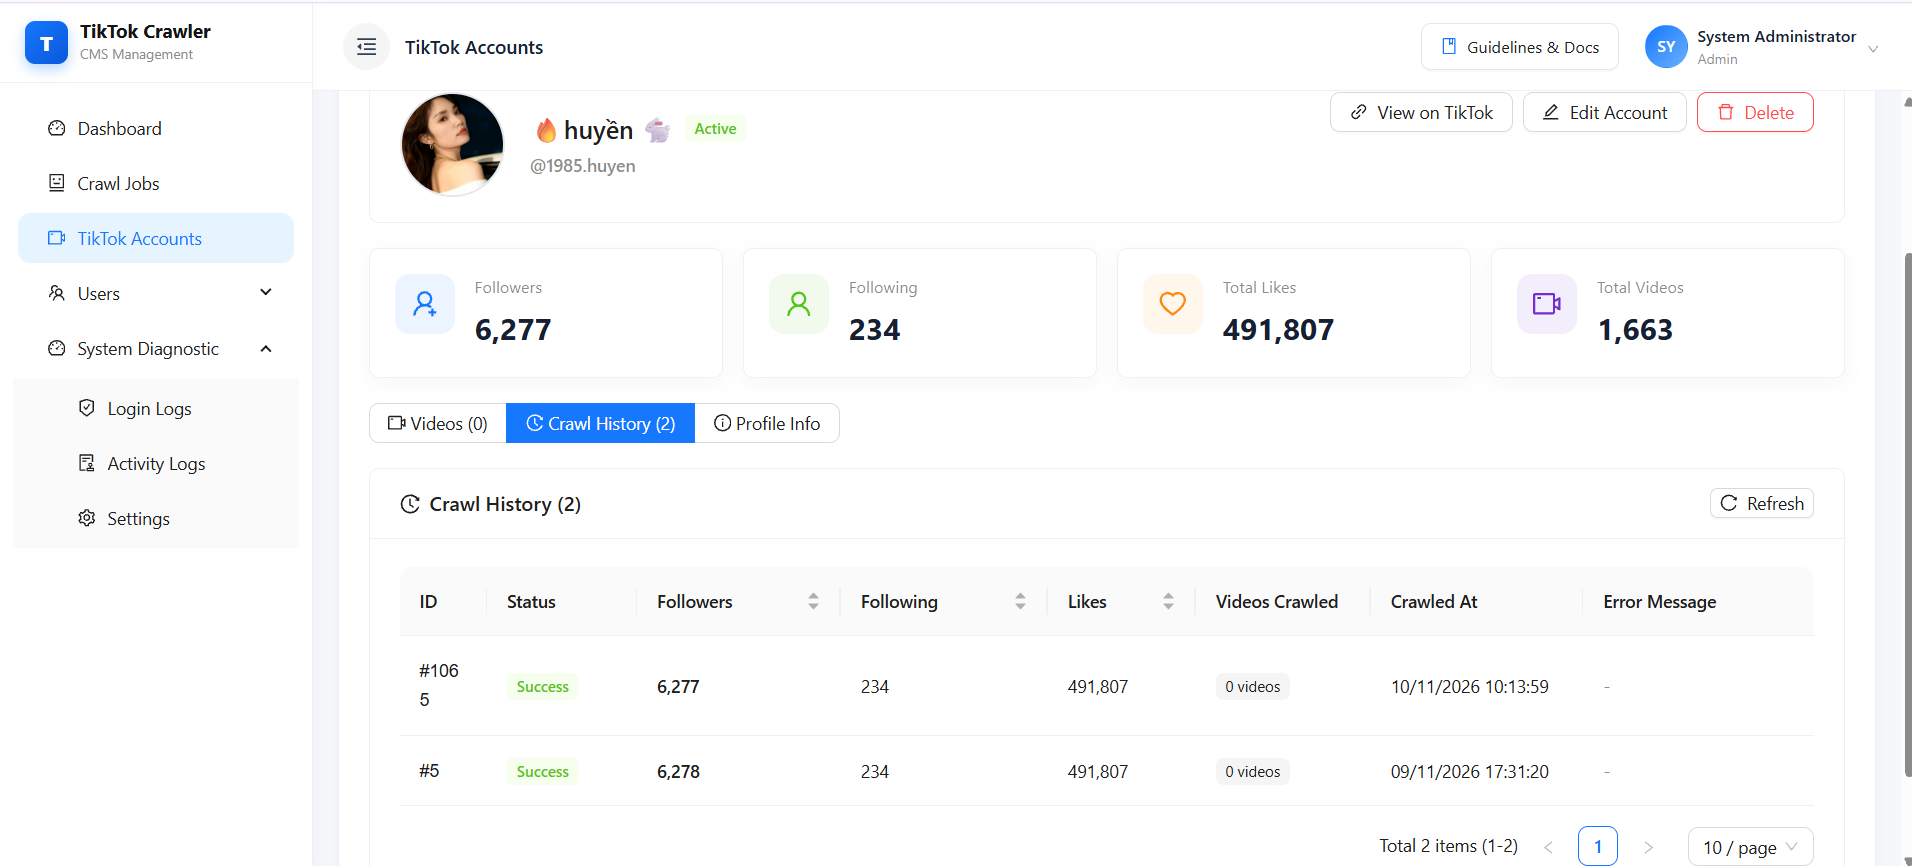
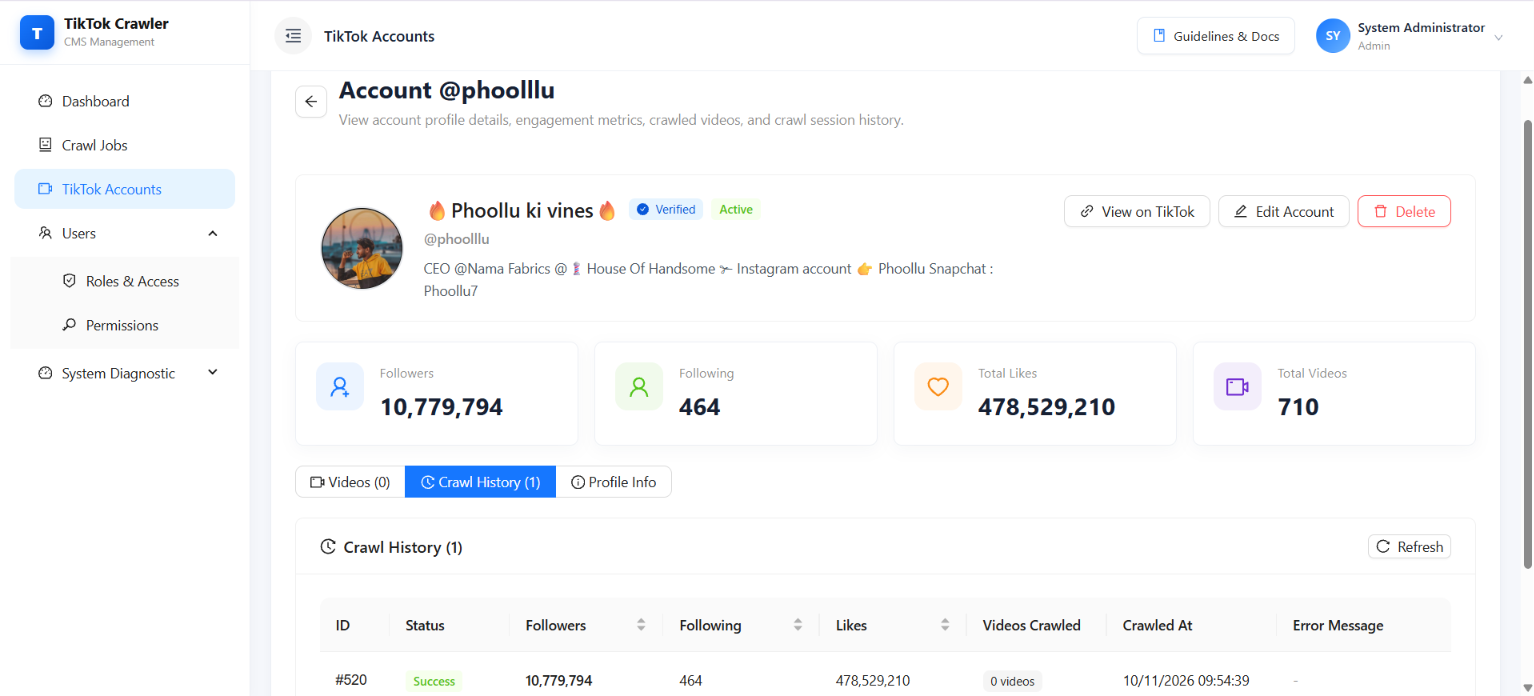
docs(guideline): sanitize database table names and enhance beginner-friendly SOP guides

diff --git a/cms-tiktok-crawler/modules/Guideline/resources/js/content/followArticlesVi.ts b/cms-tiktok-crawler/modules/Guideline/resources/js/content/followArticlesVi.ts
@@ -28,12 +28,24 @@ export const FOLLOW_ARTICLES_VI: DocArticle[] = [
       {
         "type": "heading",
         "level": 2,
-        "text": "Mục tiêu",
+        "text": "Mục tiêu & Tóm tắt Quy trình",
         "anchorId": "quickstart-objective"
       },
       {
         "type": "paragraph",
         "text": "Tài liệu này hướng dẫn bạn cách đăng nhập, thiết lập tài khoản mục tiêu, áp dụng bộ lọc ngày, khởi chạy tiến trình crawl và kiểm tra thông tin kênh TikTok cùng video vừa thu thập trong vòng 5 phút."
+      },
+      {
+        "type": "callout",
+        "variant": "tip",
+        "title": "Cẩm nang Cho Người Mới Bắt Đầu (3 Bước Cơ Bản)",
+        "text": "Nếu đây là lần đầu tiên bạn sử dụng hệ thống, quy trình vận hành chỉ gồm 3 bước siêu đơn giản:\n1. Bước 1: Mở mục 'Crawl Jobs' trên menu bên trái -> Nhập nick TikTok bạn muốn theo dõi (ví dụ: @vtv24news).\n2. Bước 2: Bấm nút 'Create & Start Crawl' màu xanh lá để hệ thống tự động bóc tách dữ liệu và video.\n3. Bước 3: Mở mục 'TikTok Accounts' trên menu để xem số liệu kênh và danh sách video đã thu thập."
+      },
+      {
+        "type": "callout",
+        "variant": "note",
+        "title": "Bố cục Giao diện Làm Việc",
+        "text": "- Thanh menu bên trái (màu tối): Nơi truy cập các chức năng chính (Dashboard, Crawl Jobs, TikTok Accounts, Quản lý người dùng, Phân quyền, Cài đặt hệ thống).\n- Thanh tiêu đề trên cùng: Hiển thị tên tài khoản đang đăng nhập, nút chuyển ngôn ngữ Anh/Việt và nút Đăng xuất.\n- Khu vực chính giữa: Nơi hiển thị các bảng dữ liệu, nút bấm thao tác và form nhập liệu."
       },
       {
         "type": "procedure",
@@ -42,7 +54,7 @@ export const FOLLOW_ARTICLES_VI: DocArticle[] = [
           {
             "stepNumber": 1,
             "title": "Đăng nhập vào Hệ thống CMS",
-            "instruction": "Mở trình duyệt và truy cập /admin/auth/login. Nhập email và mật khẩu quản trị viên, sau đó nhấn 'Sign in'.",
+            "instruction": "Mở trình duyệt web (Google Chrome, Cốc Cốc hoặc Microsoft Edge) và truy cập địa chỉ đăng nhập (/admin/auth/login). Nhập địa chỉ Email và Mật khẩu của bạn, tích chọn ô 'Ghi nhớ phiên (Remember Me)' để không phải đăng nhập lại lần sau, sau đó nhấn nút màu xanh 'Sign in'.",
             "screenshot": {
               "src": "/images/guideline/auth/figure-auth-login.png",
               "alt": "Màn hình Đăng nhập CMS",
@@ -73,7 +85,7 @@ export const FOLLOW_ARTICLES_VI: DocArticle[] = [
           {
             "stepNumber": 2,
             "title": "Điều hướng đến Danh sách Crawl Jobs",
-            "instruction": "Tại menu thanh bên trái, chọn 'Crawl Jobs'. Sau đó nhấn nút màu xanh '+ Create Job' ở góc trên bên phải.",
+            "instruction": "Nhìn sang thanh menu dọc màu tối bên tay trái màn hình, nhấn vào dòng có chữ 'Crawl Jobs' (có biểu tượng mũi tên tải xuống). Bảng danh sách các đợt crawl sẽ hiện ra. Tiếp theo, nhìn lên góc trên cùng bên phải màn hình và nhấn vào nút màu xanh dương '+ Create Job'.",
             "screenshot": {
               "src": "/images/guideline/crawler/figure-crawl-job-table.png",
               "alt": "Danh mục Crawl Jobs",
@@ -89,7 +101,7 @@ export const FOLLOW_ARTICLES_VI: DocArticle[] = [
           {
             "stepNumber": 3,
             "title": "Cấu hình Tài khoản Mục tiêu & Chế độ Crawl",
-            "instruction": "Nhập danh sách handle TikTok vào ô Data Crawl. Chọn chế độ 'Account With Videos' để lấy cả profile lẫn video. Tại mục 'Date Filter', chọn 'Today' để chỉ lấy video đăng trong ngày hôm nay.",
+            "instruction": "Tại form tạo job:\n1. Chọn tab 'Usernames' (mặc định đã chọn).\n2. Tại ô 'Dữ liệu Crawl (Data Crawl)': Gõ hoặc dán danh sách nick TikTok bạn muốn lấy (ví dụ: @vtv24news hoặc vtv24news). Nếu có nhiều kênh, mỗi kênh bạn xuống một dòng riêng biệt.\n3. Tại mục 'Chế độ Crawl (Crawl Mode)': Chọn 'Account With Videos' để lấy cả thông tin kênh lẫn danh sách video.\n4. Tại mục 'Bộ lọc Ngày (Date Filter)': Chọn 'Today' nếu bạn chỉ muốn lấy video đăng trong ngày hôm nay.",
             "screenshot": {
               "src": "/images/guideline/crawler/figure-crawl-job-create-filled.png",
               "alt": "Điền Thông tin Crawl Job",
@@ -125,7 +137,7 @@ export const FOLLOW_ARTICLES_VI: DocArticle[] = [
           {
             "stepNumber": 4,
             "title": "Kiểm tra Múi giờ & Preset Ngày",
-            "instruction": "Mở dropdown Date Filter kiểm tra preset đã chọn và xác nhận múi giờ vận hành là Asia/Ho_Chi_Minh (UTC+7).",
+            "instruction": "Nhấn vào ô chọn Date Filter để kiểm tra lại: preset là 'Today' và múi giờ đang chọn là Asia/Ho_Chi_Minh (UTC+7, giờ Việt Nam).",
             "screenshot": {
               "src": "/images/guideline/crawler/figure-crawl-job-date-filter.png",
               "alt": "Dropdown Chọn Bộ lọc Ngày và Múi giờ",
@@ -139,7 +151,7 @@ export const FOLLOW_ARTICLES_VI: DocArticle[] = [
           {
             "stepNumber": 5,
             "title": "Xác nhận và Bắt đầu Tiến trình Crawl",
-            "instruction": "Nhấn nút 'Create & Start Crawl'. Hộp thoại popconfirm xuất hiện hỏi xác nhận, nhấn 'Yes' để điều phối job ngay tới Worker Engine.",
+            "instruction": "Cuộn xuống cuối trang, nhấn vào nút màu xanh lá 'Create & Start Crawl'. Một hộp thoại nhỏ sẽ hiện lên hỏi: 'Bạn có chắc chắn muốn khởi chạy ngay không?', hãy nhấn 'Yes'.",
             "screenshot": {
               "src": "/images/guideline/crawler/figure-crawl-job-start-confirm.png",
               "alt": "Xác nhận Khởi chạy Job",
@@ -153,7 +165,7 @@ export const FOLLOW_ARTICLES_VI: DocArticle[] = [
           {
             "stepNumber": 6,
             "title": "Theo dõi Tiến độ Thực thi Chi tiết",
-            "instruction": "Nhấn vào hàng của Job hoặc biểu tượng con mắt để xem màn hình chi tiết, thanh tiến độ, tỷ lệ thành công và số video đã bóc tách.",
+            "instruction": "Hệ thống tự động đưa bạn về bảng Crawl Jobs. Bấm vào dòng của Job bạn vừa tạo để mở trang chi tiết. Bạn sẽ thấy thanh tiến độ phần trăm (%) chạy tăng dần, cùng danh sách chi tiết từng kênh đang được bóc tách.",
             "screenshot": {
               "src": "/images/guideline/crawler/figure-crawl-job-detail-summary.png",
               "alt": "Chi tiết Tiến trình Crawl",
@@ -167,7 +179,7 @@ export const FOLLOW_ARTICLES_VI: DocArticle[] = [
           {
             "stepNumber": 7,
             "title": "Kiểm tra Dữ liệu Kênh & Video Đã Thu Thập",
-            "instruction": "Truy cập 'TikTok Accounts' trên menu. Bấm vào tài khoản vừa crawl để mở drawer và chọn tab 'Videos' xem danh mục video.",
+            "instruction": "Để xem dữ liệu đã thu thập: Nhìn sang menu bên trái, nhấn vào mục 'TikTok Accounts'. Tìm tên kênh bạn vừa crawl trong bảng và bấm vào dòng đó. Một ngăn kéo chi tiết trượt ra từ bên phải màn hình. Nhấn sang tab 'Videos', toàn bộ các video sẽ hiện ra dạng lưới với ảnh bìa thumbnail, số lượt xem mắt, số lượt tim và nút mở xem trực tiếp trên TikTok!",
             "screenshot": {
               "src": "/images/guideline/tiktok-account/figure-account-detail-videos.png",
               "alt": "Showcase Video TikTok Đã Crawl",
@@ -179,6 +191,30 @@ export const FOLLOW_ARTICLES_VI: DocArticle[] = [
             "expectedResult": "Video hiển thị đầy đủ thông số tương tác và liên kết trực tiếp tới TikTok."
           }
         ]
+      },
+      {
+        "type": "heading",
+        "level": 2,
+        "text": "Câu hỏi Thường Gặp & Xử lý Khi Gặp Lỗi (FAQ)",
+        "anchorId": "quickstart-faqs"
+      },
+      {
+        "type": "callout",
+        "variant": "tip",
+        "title": "Khi nào nên chọn 'Account Only' thay vì 'Account With Videos'?",
+        "text": "- Account Only: Chỉ lấy thông tin kênh (ảnh đại diện avatar, số người theo dõi follower, số tim tích lũy, tiểu sử bio). Tốc độ cực nhanh, chỉ mất khoảng 2-3 giây cho mỗi kênh. Thích hợp khi bạn chỉ muốn theo dõi biến động số lượng người theo dõi.\n- Account With Videos: Lấy thông tin kênh VÀ bóc tách toàn bộ danh sách video cùng lượt xem, lượt like và bình luận. Thích hợp khi bạn cần nghiên cứu nội dung và xem video."
+      },
+      {
+        "type": "callout",
+        "variant": "warning",
+        "title": "Tại sao có tài khoản bị báo trạng thái Thất bại (Failed)?",
+        "text": "Nếu một tài khoản trong danh sách bị báo đỏ Failed, thông thường do 1 trong 3 lý do sau:\n1. Gõ sai tên handle (ví dụ thừa khoảng trắng, sai chữ cái).\n2. Tài khoản đã bị chủ kênh đổi tên hoặc xóa khỏi TikTok.\n3. Tài khoản đang được cài đặt ở chế độ Riêng tư (Private), người ngoài không thể xem được video."
+      },
+      {
+        "type": "callout",
+        "variant": "note",
+        "title": "Tại sao Job vừa tạo lại ở trạng thái 'Pending'?",
+        "text": "Trạng thái Pending (màu vàng/xám) có nghĩa là lệnh cào của bạn đã được xếp hàng thành công vào hệ thống. Sau khoảng 2 đến 5 giây, worker sẽ tự động tiếp nhận việc và chuyển trạng thái sang Running (màu xanh dương)."
       }
     ]
   },
@@ -333,7 +369,7 @@ export const FOLLOW_ARTICLES_VI: DocArticle[] = [
             "stepNumber": 2,
             "title": "Nhập Mã 6 Số Xác nhận Kích hoạt",
             "instruction": "Nhập mã 6 chữ số đang hiển thị trên điện thoại và bấm 'Verify Code'.",
-            "expectedResult": "Hệ thống ghi nhận google2fa_enabled = 1 và đăng nhập thành công."
+            "expectedResult": "Hệ thống ghi nhận kích hoạt bảo mật 2 lớp thành công và tự động chuyển hướng vào Dashboard."
           }
         ]
       },
@@ -429,7 +465,7 @@ export const FOLLOW_ARTICLES_VI: DocArticle[] = [
               "targetArea": "Cột Thao tác Bảng User",
               "captureInstruction": "Reset 2FA popconfirm"
             },
-            "expectedResult": "Hệ thống xóa google2fa_secret; người dùng sẽ được yêu cầu quét mã QR mới ở lần đăng nhập kế tiếp."
+            "expectedResult": "Hệ thống xóa khóa bảo mật cũ; người dùng sẽ được yêu cầu quét mã QR mới ở lần đăng nhập kế tiếp."
           },
           {
             "stepNumber": 2,
@@ -842,15 +878,20 @@ export const FOLLOW_ARTICLES_VI: DocArticle[] = [
                 "description": "Tên hiển thị của creator (ví dụ: VTV24 Tin Tức)"
               },
               {
-                "name": "Quốc gia (Region)",
-                "required": false,
-                "description": "Mã quốc gia ISO 2 chữ cái (VN, US)"
+                "name": "Following",
+                "required": true,
+                "description": "Số lượng người đã theo dõi"
               },
               {
-                "name": "Ngôn ngữ (Language)",
-                "required": false,
-                "description": "Mã ngôn ngữ chính (vi, en)"
-              }
+                "name": "Followers",
+                "required": true,
+                "description": "Số lượng người theo dõi"
+              },
+              {
+                "name": "Likes",
+                "required": true,
+                "description": "Số lượng lượt yêu thích"
+              },
             ],
             "expectedResult": "Kênh mới được lưu vào danh mục quản lý."
           },

diff --git a/cms-tiktok-crawler/modules/Guideline/resources/js/content/followArticles.ts b/cms-tiktok-crawler/modules/Guideline/resources/js/content/followArticles.ts
@@ -33,7 +33,19 @@ export const FOLLOW_ARTICLES: DocArticle[] = [
       },
       {
         "type": "paragraph",
-        "text": "This quickstart walkthrough demonstrates how to extract creator profile metadata and latest published videos from TikTok accounts into the CMS database in under five minutes using the automated Crawler worker pool."
+        "text": "This quickstart walkthrough demonstrates how to extract creator profile metadata and latest published videos from TikTok accounts into the CMS repository in under five minutes using the automated Crawler worker pool."
+      },
+      {
+        "type": "callout",
+        "variant": "tip",
+        "title": "Beginner Handbook (3 Simple Steps)",
+        "text": "If this is your first time using the platform, the end-to-end workflow takes just 3 simple steps:\n1. Step 1: Open 'Crawl Jobs' on the left menu -> Enter TikTok creators to monitor (e.g. @vtv24news).\n2. Step 2: Click the green 'Create & Start Crawl' button to initiate automatic profile and video extraction.\n3. Step 3: Open 'TikTok Accounts' on the menu to inspect follower metrics and view the captured video catalog."
+      },
+      {
+        "type": "callout",
+        "variant": "note",
+        "title": "CMS Workspace Layout",
+        "text": "- Left Sidebar (Dark Menu): Access all functional modules (Dashboard, Crawl Jobs, TikTok Accounts, User Management, Roles & Permissions, System Diagnostics).\n- Top Header: Shows your signed-in profile, language switcher (EN/VI), and Sign Out button.\n- Central Workspace: Area displaying data tables, statistics cards, charts, and input forms."
       },
       {
         "type": "procedure",
@@ -333,7 +345,7 @@ export const FOLLOW_ARTICLES: DocArticle[] = [
             "stepNumber": 2,
             "title": "Verify Initial 6-Digit Passcode",
             "instruction": "Enter the 6-digit code currently visible in your authenticator app and click 'Verify Code'.",
-            "expectedResult": "System sets google2fa_enabled = 1, binds the secret key to your user record, and logs you into the CMS."
+            "expectedResult": "System verifies two-factor authentication, binds security credentials, and logs you into the CMS."
           }
         ]
       },
@@ -428,12 +440,12 @@ export const FOLLOW_ARTICLES: DocArticle[] = [
             "screenshot": {
               "src": "/images/guideline/user/figure-user-reset-authen.png",
               "alt": "Reset 2FA Authentication Popconfirm",
-              "caption": "Figure 2.7: Confirming 2FA reset to clear google2fa_secret and allow user to rescan QR code",
+              "caption": "Figure 2.7: Confirming 2FA reset to clear security credentials and allow user to rescan QR code",
               "location": "/admin/user",
               "targetArea": "User Actions Popconfirm",
               "captureInstruction": "2FA Reset popconfirm"
             },
-            "expectedResult": "google2fa_secret is purged; user will be prompted to scan a fresh QR code on next login."
+            "expectedResult": "Two-factor credentials are reset; user will be prompted to scan a fresh QR code on next login."
           },
           {
             "stepNumber": 2,
@@ -871,15 +883,20 @@ export const FOLLOW_ARTICLES: DocArticle[] = [
                 "description": "Display name of creator (e.g. VTV24 Tin Tức)"
               },
               {
-                "name": "Region",
-                "required": false,
-                "description": "Two-letter ISO country code (e.g. VN, US)"
+                "name": "Following",
+                "required": true,
+                "description": "Number of users this creator is following"
               },
               {
-                "name": "Language",
-                "required": false,
-                "description": "Primary language code (e.g. vi, en)"
-              }
+                "name": "Followers",
+                "required": true,
+                "description": "Number of users this creator is followers"
+              },
+              {
+                "name": "Likes",
+                "required": true,
+                "description": "Number of users this creator is likes"
+              },
             ],
             "expectedResult": "New creator profile is saved and appears in the accounts directory."
           },
@@ -1053,7 +1070,7 @@ export const FOLLOW_ARTICLES: DocArticle[] = [
               "targetArea": "User Action Column Popconfirm",
               "captureInstruction": "2FA Reset popconfirm"
             },
-            "expectedResult": "User's google2fa_secret is cleared; they will scan a fresh QR code on next login."
+            "expectedResult": "User's two-factor credentials are cleared; they will scan a fresh QR code on next login."
           },
           {
             "stepNumber": 8,

diff --git a/cms-tiktok-crawler/modules/Guideline/resources/js/content/learnArticlesVi.ts b/cms-tiktok-crawler/modules/Guideline/resources/js/content/learnArticlesVi.ts
@@ -209,7 +209,7 @@ export const LEARN_ARTICLES_VI: DocArticle[] = [
 			},
 			{
 				type: 'paragraph',
-				text: 'Tài khoản TikTok được lưu trong bảng tiktok_accounts. Khóa định danh vĩnh viễn là SecUID do máy chủ TikTok ban hành, giúp dữ liệu luôn toàn vẹn ngay cả khi chủ kênh đổi tên hoặc đổi handle.',
+				text: 'Thông tin tài khoản TikTok được quản lý theo mô hình định danh chuẩn hóa của hệ thống. Khóa định danh vĩnh viễn là SecUID do máy chủ TikTok ban hành, giúp dữ liệu luôn toàn vẹn ngay cả khi chủ kênh đổi tên hoặc đổi handle.',
 			},
 			{
 				type: 'heading',
@@ -267,7 +267,7 @@ export const LEARN_ARTICLES_VI: DocArticle[] = [
 			},
 			{
 				type: 'paragraph',
-				text: 'Mọi thao tác tạo crawl job, chỉnh sửa quyền hạn hay cập nhật cấu hình đều được liên kết chặt chẽ với ID của người dùng đăng nhập thông qua Sanctum token và ghi nhật ký trong bảng activity_logs.',
+				text: 'Mọi thao tác tạo crawl job, chỉnh sửa quyền hạn hay cập nhật cấu hình đều được liên kết chặt chẽ với tài khoản quản trị viên đăng nhập và ghi nhận vào hệ thống nhật ký kiểm toán (Audit Trail Logs) phục vụ truy vết vận hành.',
 			},
 			{
 				type: 'image',
@@ -363,7 +363,7 @@ export const LEARN_ARTICLES_VI: DocArticle[] = [
 			},
 			{
 				type: 'paragraph',
-				text: 'Bảng điều khiển System Diagnostic thực thi các đầu đo kiểm tra trực tiếp tới Python Crawler Worker (cổng 8001), kết nối cơ sở dữ liệu MySQL và bộ nhớ đệm Cache, đảm bảo phát hiện sự cố sớm.',
+				text: 'Bảng điều khiển System Diagnostic thực thi các đầu đo kiểm tra trực tiếp tới dịch vụ Crawler Worker, kết nối cơ sở dữ liệu lưu trữ và bộ nhớ đệm Cache, đảm bảo phát hiện sự cố sớm.',
 			},
 			{
 				type: 'image',

diff --git a/cms-tiktok-crawler/modules/Guideline/resources/js/content/learnArticles.ts b/cms-tiktok-crawler/modules/Guideline/resources/js/content/learnArticles.ts
@@ -296,11 +296,11 @@ export const LEARN_ARTICLES: DocArticle[] = [
 			},
 			{
 				type: 'table',
-				headers: ['Entity', 'Relationship', 'Database Table', 'Key Fields'],
+				headers: ['Domain Entity', 'Association', 'Functional Role', 'Core Business Attributes'],
 				rows: [
-					['TiktokAccount', 'hasMany(TiktokVideo)', 'tiktok_accounts', 'sec_uid, username, nickname, avatar_url, follower_count, like_count'],
-					['TiktokVideo', 'belongsTo(TiktokAccount)', 'tiktok_videos', 'video_id, sec_uid, desc, play_count, digg_count, duration, cover_url'],
-					['CrawlResult', 'belongsTo(TiktokAccount)', 'crawl_results', 'job_id, sec_uid, status, snapshot_followers, snapshot_videos'],
+					['TikTok Creator Profile', '1 : N (Published Videos)', 'Creator Identity & Metric Store', 'SecUID, Username, Nickname, Follower & Like Metrics'],
+					['TikTok Video', 'N : 1 (Creator Profile)', 'Media Catalog & Play Statistics', 'Video ID, Description, Play Count, Like Count, Duration'],
+					['Crawl Execution Result', 'N : 1 (Creator Profile)', 'Batch Audit & Snapshot Registry', 'Job Reference, Status, Captured Snapshot Metrics'],
 				],
 			},
 			{
@@ -349,7 +349,7 @@ export const LEARN_ARTICLES: DocArticle[] = [
 			},
 			{
 				type: 'paragraph',
-				text: 'The User module manages administrative personnel, operators, and analysts. Every crawl job and system mutation is attributed to an authenticated user ID through internal foreign key relationships and activity logs.',
+				text: 'The User module manages administrative personnel, operators, and analysts. Every crawl job and system mutation is attributed to an authenticated user ID through domain associations and audit trail logs.',
 			},
 			{
 				type: 'heading',
